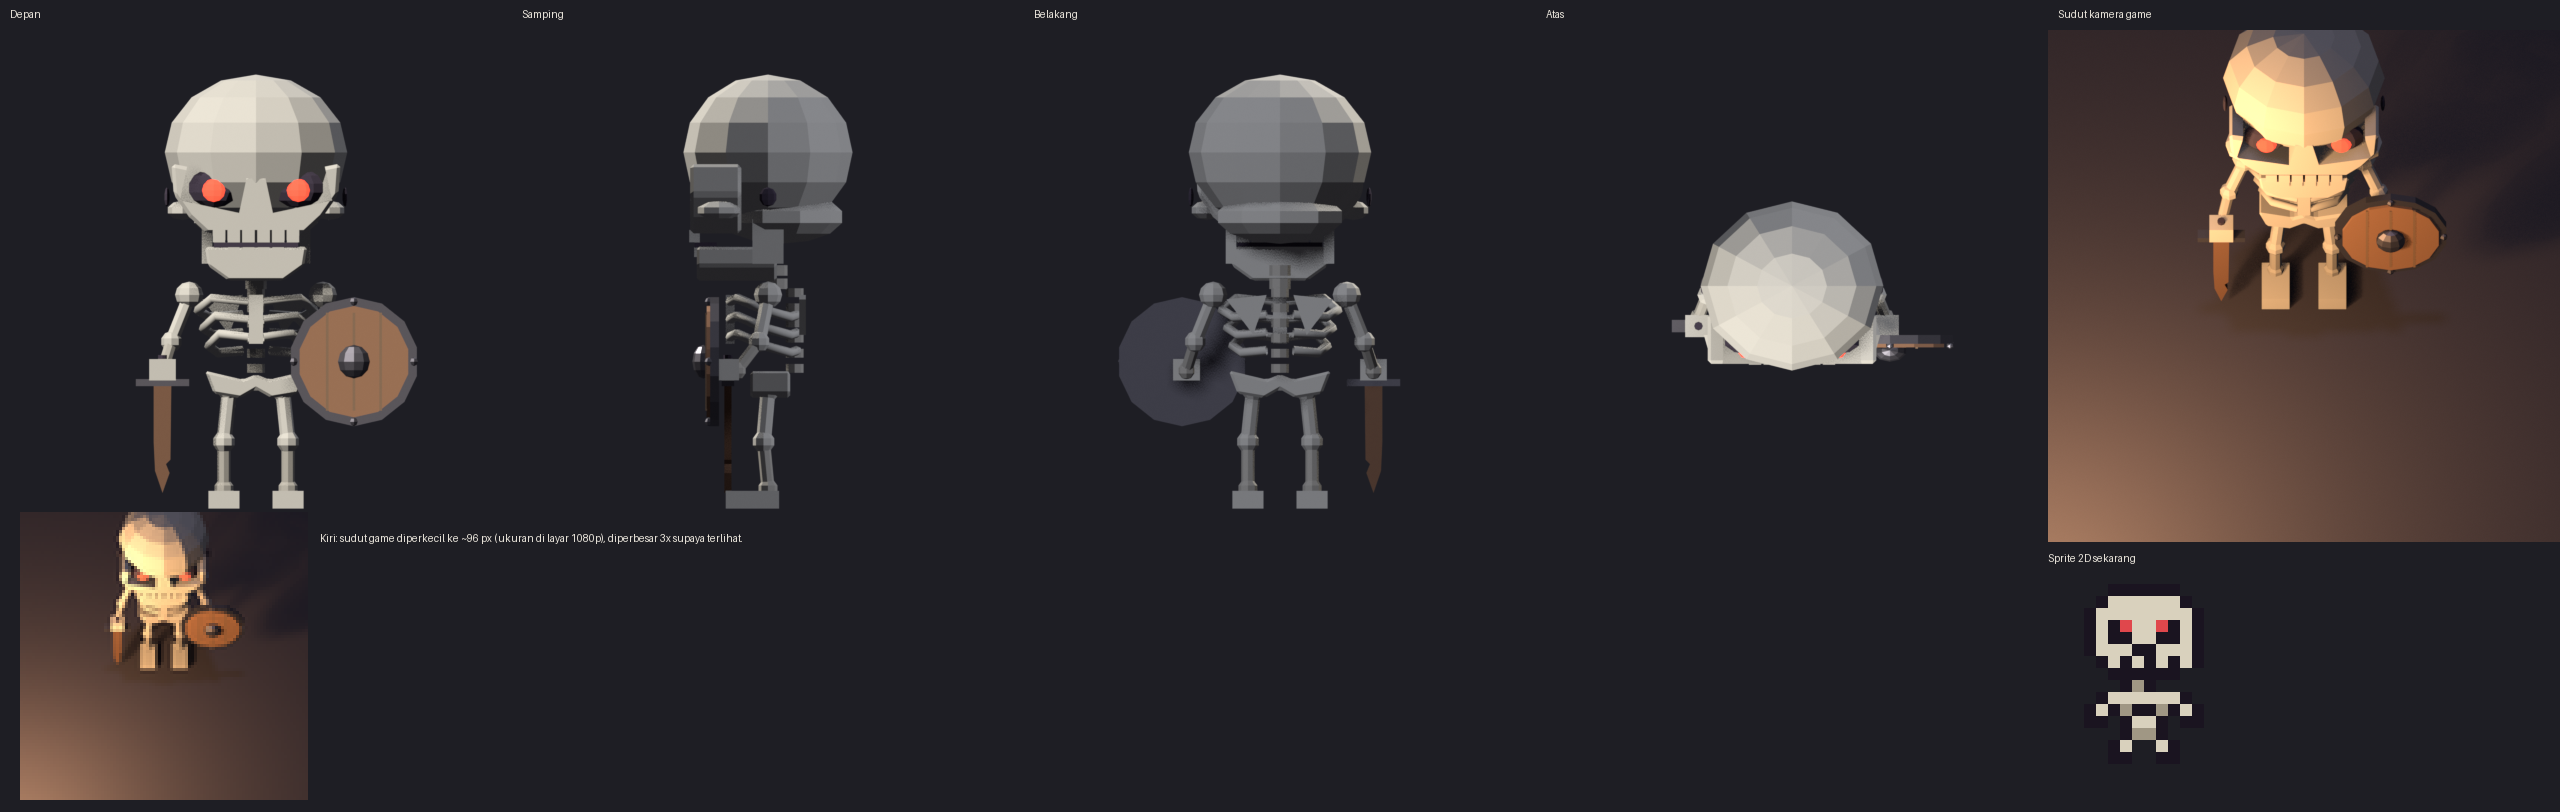
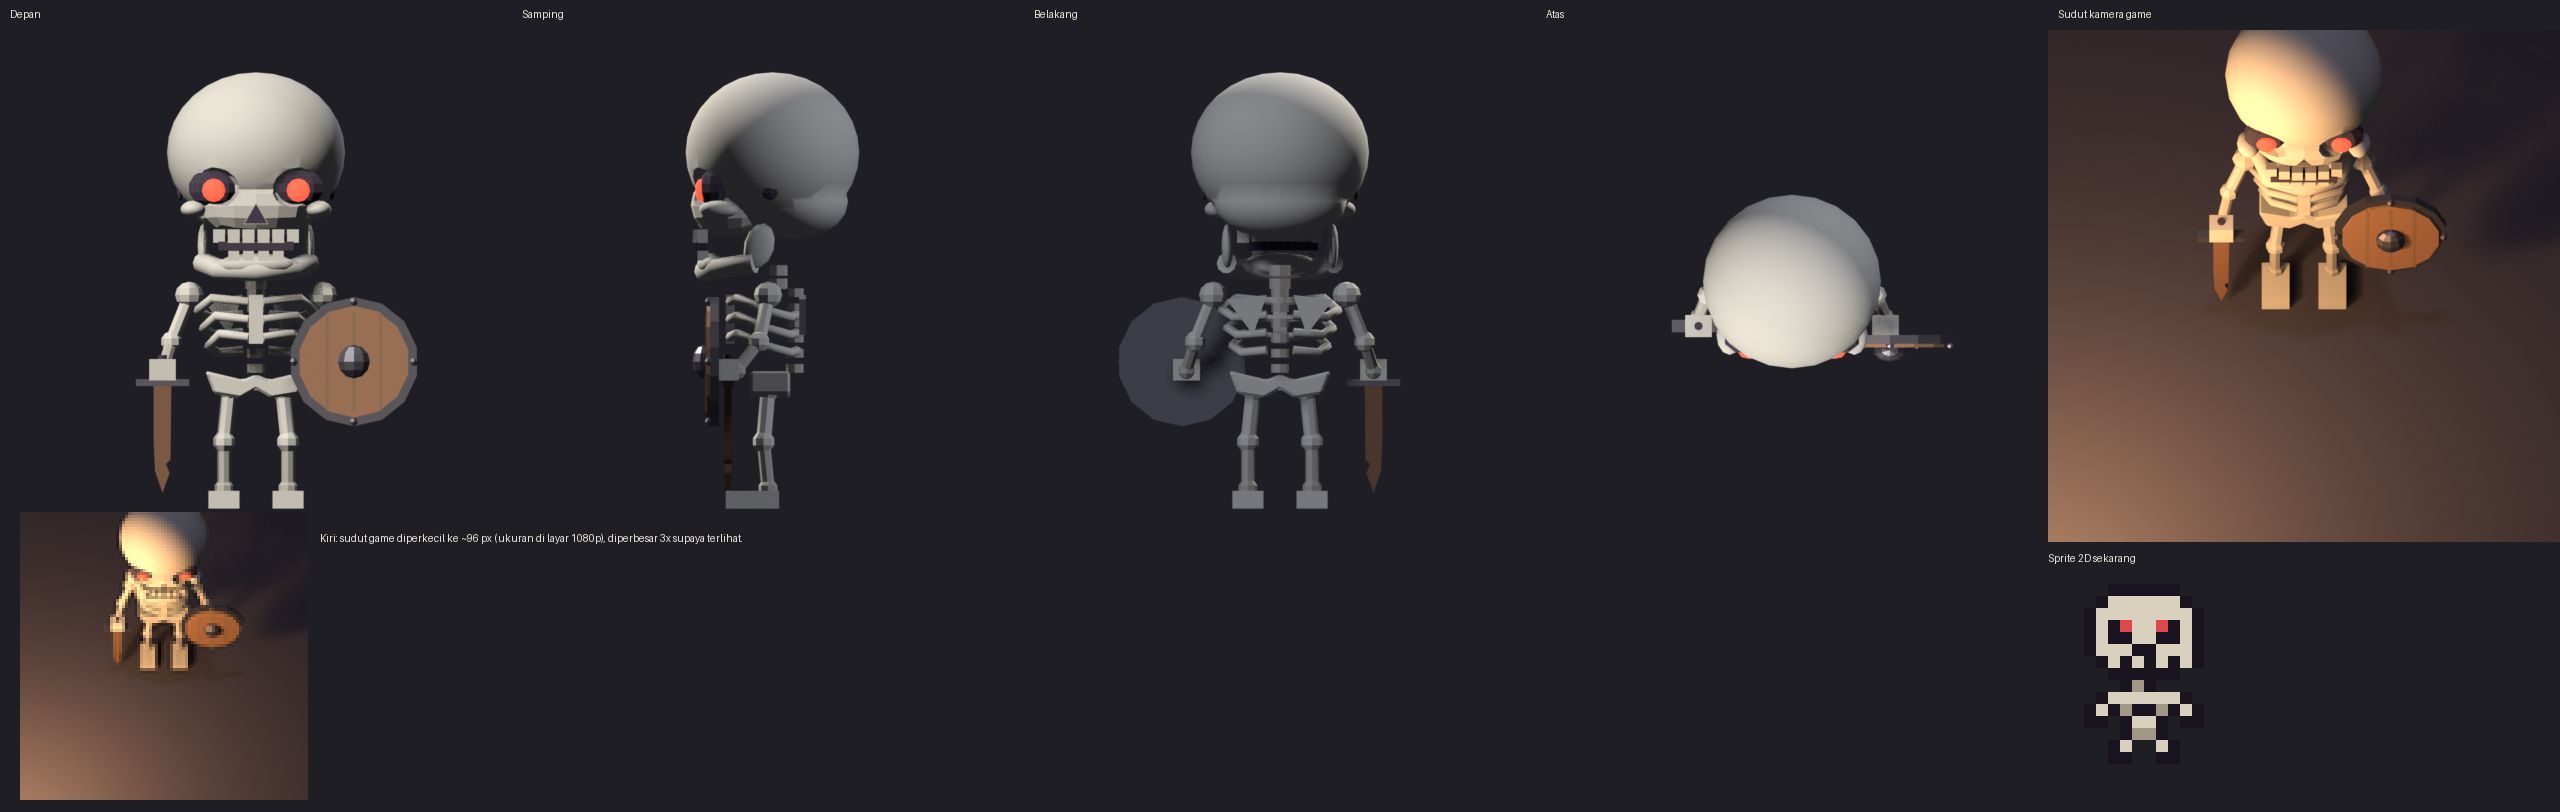
spike: kepala Tulang Penjaga dihaluskan (tempurung, blok wajah, rahang U)

diff --git a/ArtSource/scripts/spike3d_tulang_blender.py b/ArtSource/scripts/spike3d_tulang_blender.py
@@ -96,11 +96,12 @@ def prism(name, pts_xz, y0, y1, m, bevel=0.0):
     return o
 
 
-def tube(name, pts, r, m):
+def tube(name, pts, r, m, res=1):
     cu = bpy.data.curves.new(name, 'CURVE')
     cu.dimensions = '3D'
     cu.bevel_depth = r
-    cu.bevel_resolution = 1
+    cu.bevel_resolution = res
+    cu.use_fill_caps = True
     sp = cu.splines.new('POLY')
     sp.points.add(len(pts) - 1)
     for p, (x, y, z) in zip(sp.points, pts): p.co = (x, y, z, 1)
@@ -125,33 +126,58 @@ def boolean(target, cutter, op='DIFFERENCE'):
     cutter.hide_viewport = True
 
 
-# ---------- tengkorak ----------
-cranium = sphere('Cranium', (0, 0.0, 0.80), (0.205, 0.19, 0.175), M_BONE, seg=12, rings=8)
-# pelat wajah: profil depan diekstrusi ke belakang, jadi wajah datar dengan tulang pipi
-face = prism('Face', [(-0.19, 0.775), (-0.04, 0.745), (0, 0.75), (0.04, 0.745), (0.19, 0.775), (0.185, 0.705),
-                      (0.15, 0.655), (0.11, 0.618), (-0.11, 0.618), (-0.15, 0.655), (-0.185, 0.705)],
-             -0.175, -0.06, M_BONE, bevel=0.008)  # tidak menembus ke belakang tempurung
+# ---------- tengkorak: satu mesh yang dibentuk ulang, bukan bola + balok ----------
+def smooth(o):
+    for p in o.data.polygons: p.use_smooth = True
+    return o
+
+
+def skull_mesh():
+    """Tempurung bola halus + blok wajah membulat (subdivision) + tulang pipi, dilebur jadi satu permukaan."""
+    cran = smooth(sphere('Skull', (0, 0.01, 0.80), (0.2, 0.195, 0.18), M_BONE, seg=24, rings=16))
+    parts = []
+    bpy.ops.mesh.primitive_cube_add(location=(0, -0.09, 0.68))
+    face = bpy.context.active_object
+    face.scale = (0.155, 0.1, 0.085)
+    link(face, M_BONE, 'FaceBlock')
+    sub = face.modifiers.new('sub', 'SUBSURF'); sub.levels = sub.render_levels = 2
+    parts.append(face)
+    for sx in (1, -1):
+        parts.append(smooth(sphere(f'CheekBone_{sx}', (sx * 0.14, -0.11, 0.672), (0.03, 0.045, 0.02), M_BONE, seg=12, rings=8)))
+    parts.append(smooth(sphere('Occiput', (0, 0.06, 0.69), (0.15, 0.12, 0.085), M_BONE, seg=16, rings=10)))  # tutup celah belakang
+    for prt in parts: boolean(cran, prt, 'UNION')
+    return cran
+
+
+skull = skull_mesh()
 for s in (1, -1):
-    # rongga mata miring: kotak pemotong diputar supaya alis turun ke tengah (kesan marah)
-    cut = box(f'SocketCut_{s}', (s * 0.095, -0.17, 0.722), (0.068, 0.07, 0.045), M_INK, rot=(0, s * math.radians(-12), 0))
-    boolean(face, cut)
-    sphere(f'SocketDark_{s}', (s * 0.095, -0.125, 0.72), (0.06, 0.03, 0.045), M_INK)
+    # rongga mata bulat telur, miring supaya alis turun ke tengah (kesan marah)
+    cut = sphere(f'SocketCut_{s}', (s * 0.095, -0.175, 0.722), (0.062, 0.07, 0.046), M_INK, seg=12, rings=8)
+    cut.rotation_euler = (0, s * math.radians(-14), 0)
+    boolean(skull, cut)
+    sphere(f'SocketDark_{s}', (s * 0.095, -0.12, 0.72), (0.06, 0.035, 0.045), M_INK)
     sphere(f'Eye_{s}', (s * 0.095, -0.15, 0.715), (0.026, 0.014, 0.026), M_EYE, seg=8, rings=6)
-    sphere(f'Cheek_{s}', (s * 0.165, -0.11, 0.67), (0.035, 0.05, 0.022), M_BONE, seg=8, rings=5)
-    sphere(f'EarHole_{s}', (s * 0.2, 0.0, 0.70), (0.006, 0.02, 0.022), M_INK, seg=8, rings=5)
-nose = prism('NoseCut', [(0, 0.684), (-0.03, 0.636), (0, 0.646), (0.03, 0.636)], -0.2, -0.12, M_INK)
-boolean(face, nose)
-prism('NoseDark', [(0, 0.68), (-0.026, 0.638), (0, 0.646), (0.026, 0.638)], -0.14, -0.12, M_INK)
-sphere('SkullBase', (0, 0.03, 0.655), (0.15, 0.14, 0.06), M_BONE)  # menutup celah bawah tempurung dari belakang
-# gigi atas, mulut, rahang bawah, gigi bawah
+    sphere(f'EarHole_{s}', (s * 0.17, 0.005, 0.715), (0.008, 0.02, 0.022), M_INK, seg=8, rings=5)
+def nose_cone(name, r, depth, y, m):
+    # kerucut 3 sisi sepanjang sumbu y, puncak segitiga menghadap ke atas (lubang hidung tengkorak)
+    bpy.ops.mesh.primitive_cone_add(vertices=3, radius1=r, radius2=r, depth=depth, location=(0, y, 0.655),
+                                    rotation=(math.pi / 2, 0, 0))
+    return link(bpy.context.active_object, m, name)
+boolean(skull, nose_cone('NoseCut', 0.032, 0.12, -0.18, M_INK))
+nose_cone('NoseDark', 0.03, 0.02, -0.135, M_INK)
+box('Mouth', (0, -0.15, 0.59), (0.085, 0.012, 0.01), M_INK)
+# gigi mengikuti lengkung rahang
 for i, x in enumerate((-0.083, -0.05, -0.017, 0.017, 0.05, 0.083)):
-    box(f'ToothUp_{i}', (x, -0.165, 0.612), (0.014, 0.012, 0.014), M_BONE)
-    if 0 < i < 5: box(f'ToothLow_{i}', (x, -0.155, 0.576), (0.013, 0.011, 0.011), M_BONE)
-box('Mouth', (0, -0.14, 0.592), (0.095, 0.025, 0.006), M_INK)
-prism('Jaw', [(-0.115, 0.588), (0.115, 0.588), (0.108, 0.545), (0.062, 0.512), (-0.062, 0.512), (-0.108, 0.545)],
-      -0.16, 0.02, M_BONE, bevel=0.006)
-for s in (1, -1):  # ramus rahang naik ke arah telinga
-    box(f'JawRamus_{s}', (s * 0.11, 0.0, 0.6), (0.012, 0.035, 0.05), M_BONE)
+    box(f'ToothUp_{i}', (x, -0.158 + 1.6 * x * x, 0.612), (0.0135, 0.012, 0.015), M_BONE)
+    if 0 < i < 5: box(f'ToothLow_{i}', (x, -0.148 + 1.6 * x * x, 0.568), (0.0125, 0.011, 0.011), M_BONE)
+# rahang bawah: satu lengkung U halus dari ramus kanan, dagu, ke ramus kiri
+jaw = tube('Jaw', [(-0.12, -0.03, 0.552), (-0.085, -0.115, 0.538), (0, -0.142, 0.534),
+                   (0.085, -0.115, 0.538), (0.12, -0.03, 0.552)], 0.024, M_BONE, res=3)
+for s in (1, -1):  # ramus pipih naik dari sudut rahang ke dalam tengkorak
+    ramus = sphere(f'JawRamus_{s}', (s * 0.118, -0.02, 0.59), (0.014, 0.034, 0.052), M_BONE, seg=10, rings=6)
+    ramus.rotation_euler = (math.radians(-15), 0, 0)
+    smooth(ramus)
+smooth(sphere('Chin', (0, -0.125, 0.548), (0.09, 0.035, 0.026), M_BONE, seg=14, rings=8))
 
 # ---------- badan ----------
 for i in range(2): cyl(f'Neck_{i}', (0, 0.02, 0.505 + i * 0.03 - 0.012), (0, 0.02, 0.505 + i * 0.03 + 0.012), 0.024, M_BONE_D)
